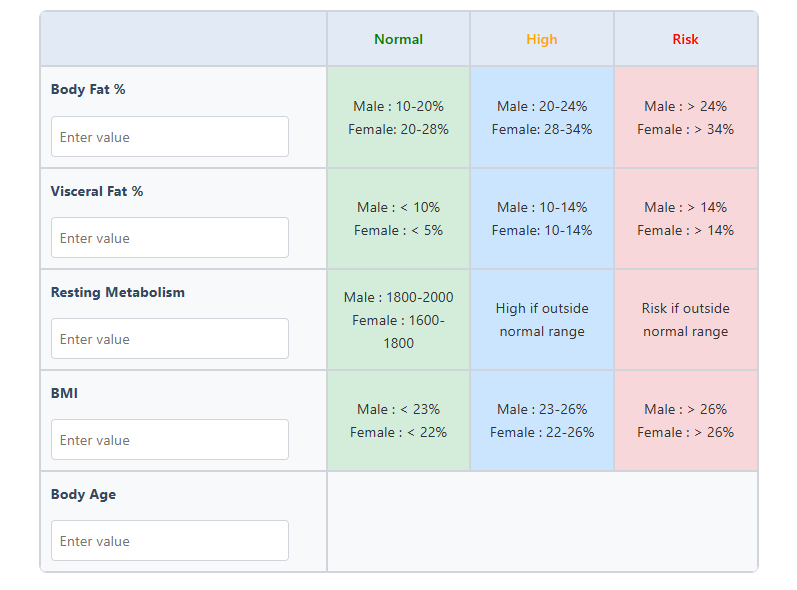
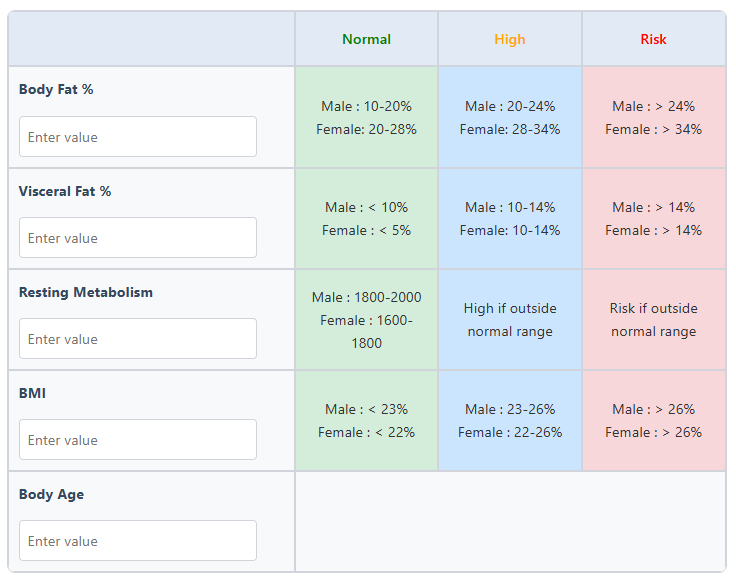
new changes for report

Changed region(s): [[0.0, 0.0, 1.0, 0.9948], [0.4375, 0.342, 0.5625, 0.4041], [0.4688, 0.0622, 0.5312, 0.0933]]

diff --git a/src/component/BlankFinalReport.jsx b/src/component/BlankFinalReport.jsx
@@ -7,7 +7,7 @@ import wellnessCenterLogo from './wellness-center-logo.png'; // Default fallback
 import reportImage from './blank-report11.jpg';
 import reportImg2 from './blank-report2.PNG';
 import reportImg3 from './blank-report3.PNG'; // New image for the second page
-
+import reportImg4 from './blank-report4.jpg'; // New image for the second page
 const BlankFinalReport = ({ agentData }) => {
   if (!agentData) {
     return <div className="no-data-message">No agent data available.</div>;
@@ -171,6 +171,7 @@ const BlankFinalReport = ({ agentData }) => {
             </div>
           </div>
         </div>
+        
       </div>
 
       {/* Page 2: First User Information Image */}
@@ -189,6 +190,15 @@ const BlankFinalReport = ({ agentData }) => {
         />
           <img 
           src={reportImg3} 
+          alt="User  Information Page 3" 
+          style={{ width: '100%', height: '100%', objectFit: 'contain' }} 
+          loading="lazy" 
+        />
+      </div>
+        <div className="pdf-page" data-page="3">
+      
+          <img 
+          src={reportImg4} 
           alt="User  Information Page 3" 
           style={{ width: '100%', height: '100%', objectFit: 'contain' }} 
           loading="lazy" 

diff --git a/src/component/RegistrationForm.jsx b/src/component/RegistrationForm.jsx
@@ -271,7 +271,7 @@ const RegistrationForm = ({ onRegistrationSuccess }) => {
             </Form.Group>
 
             <Form.Group className="input-group">
-              <Form.Label>Herbalife Id <span className="required">*</span></Form.Label>
+              <Form.Label>Herbalife Member ID <span className="required">*</span></Form.Label>
               <div className="input-container">
 
                 <Form.Control
@@ -301,7 +301,7 @@ const RegistrationForm = ({ onRegistrationSuccess }) => {
             </Form.Group>
 
             <Form.Group className="input-group">
-              <Form.Label>Photo</Form.Label>
+              <Form.Label> Herbalife Member Photo</Form.Label>
               <div className="file-input-container">
                 <Form.Control
                   type="file"
@@ -319,7 +319,7 @@ const RegistrationForm = ({ onRegistrationSuccess }) => {
             </Form.Group>
 
             <Form.Group className="input-group">
-              <Form.Label>Logo Image</Form.Label>
+              <Form.Label>Herbalife wellness center Logo Image</Form.Label>
               <div className="file-input-container">
                 <Form.Control
                   type="file"

diff --git a/src/component/FinalReport.jsx b/src/component/FinalReport.jsx
@@ -740,7 +740,7 @@ const FinalReport = ({ allData, agentData }) => {
                                 </div>
                                 <div className="trend-line-exact">
                                     <span className="trend-diff-exact red-text">
-                                        ▲ 6 
+                                        ▲ 6
                                     </span>
                                 </div>
                             </div>

diff --git a/backend/app.py b/backend/app.py
@@ -20,7 +20,7 @@ load_dotenv()
 app = Flask(__name__)
 
 # --- CORS ---
-CORS(app, resources={r"/api/*": {"origins": ["http://localhost:3000", "http://127.0.0.1:3000"]}})
+CORS(app, resources={r"/api/*": {"origins": ["http://localhost:3000", "http://127.0.0.1:3000",  "http://localhost:3001", "http://127.0.0.1:3001" ]}})
 
 
 
